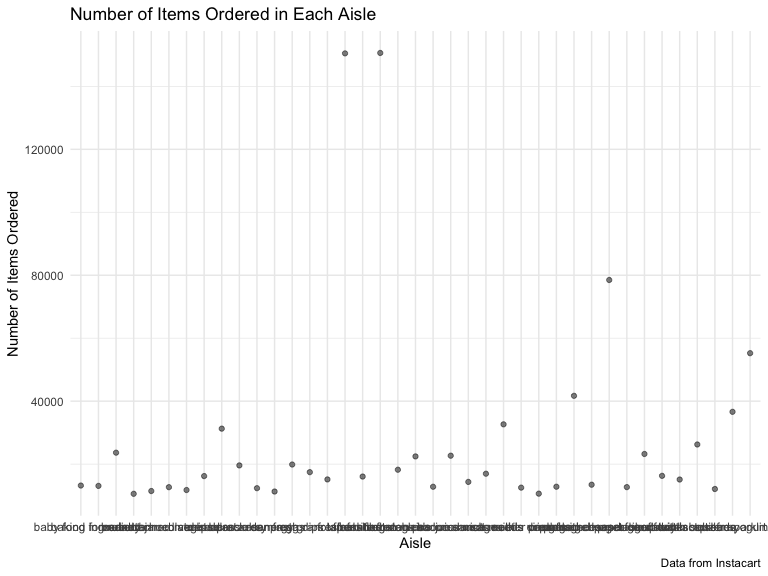
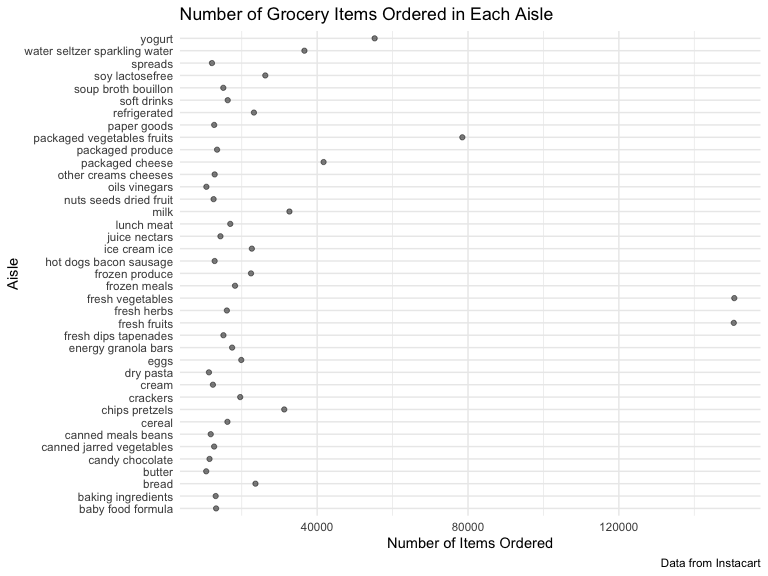
Problem 1: Arranged aisles in plot in alphabetical order.

diff --git a/p8105_hw3_mm5351.md b/p8105_hw3_mm5351.md
@@ -41,16 +41,17 @@ vegetables, fruits, yogurt, and packaged cheese.
 ``` r
 aisle_plot =
   aisle_data %>% 
-  filter(n > 10000)  
+  arrange(aisle) %>% 
+  filter(n > 10000)
   
 ##create plot  
 aisle_plot %>% 
-  ggplot(aes(x = aisle, y = n)) +
+  ggplot(aes(x = n, y = aisle)) +
   geom_point(alpha = 0.5) +
     labs(
-    title = "Number of Items Ordered in Each Aisle",
-    x = "Aisle",
-    y = "Number of Items Ordered",
+    title = "Number of Grocery Items Ordered in Each Aisle",
+    x = "Number of Items Ordered",
+    y = "Aisle",
     caption = "Data from Instacart")
 ```
 
